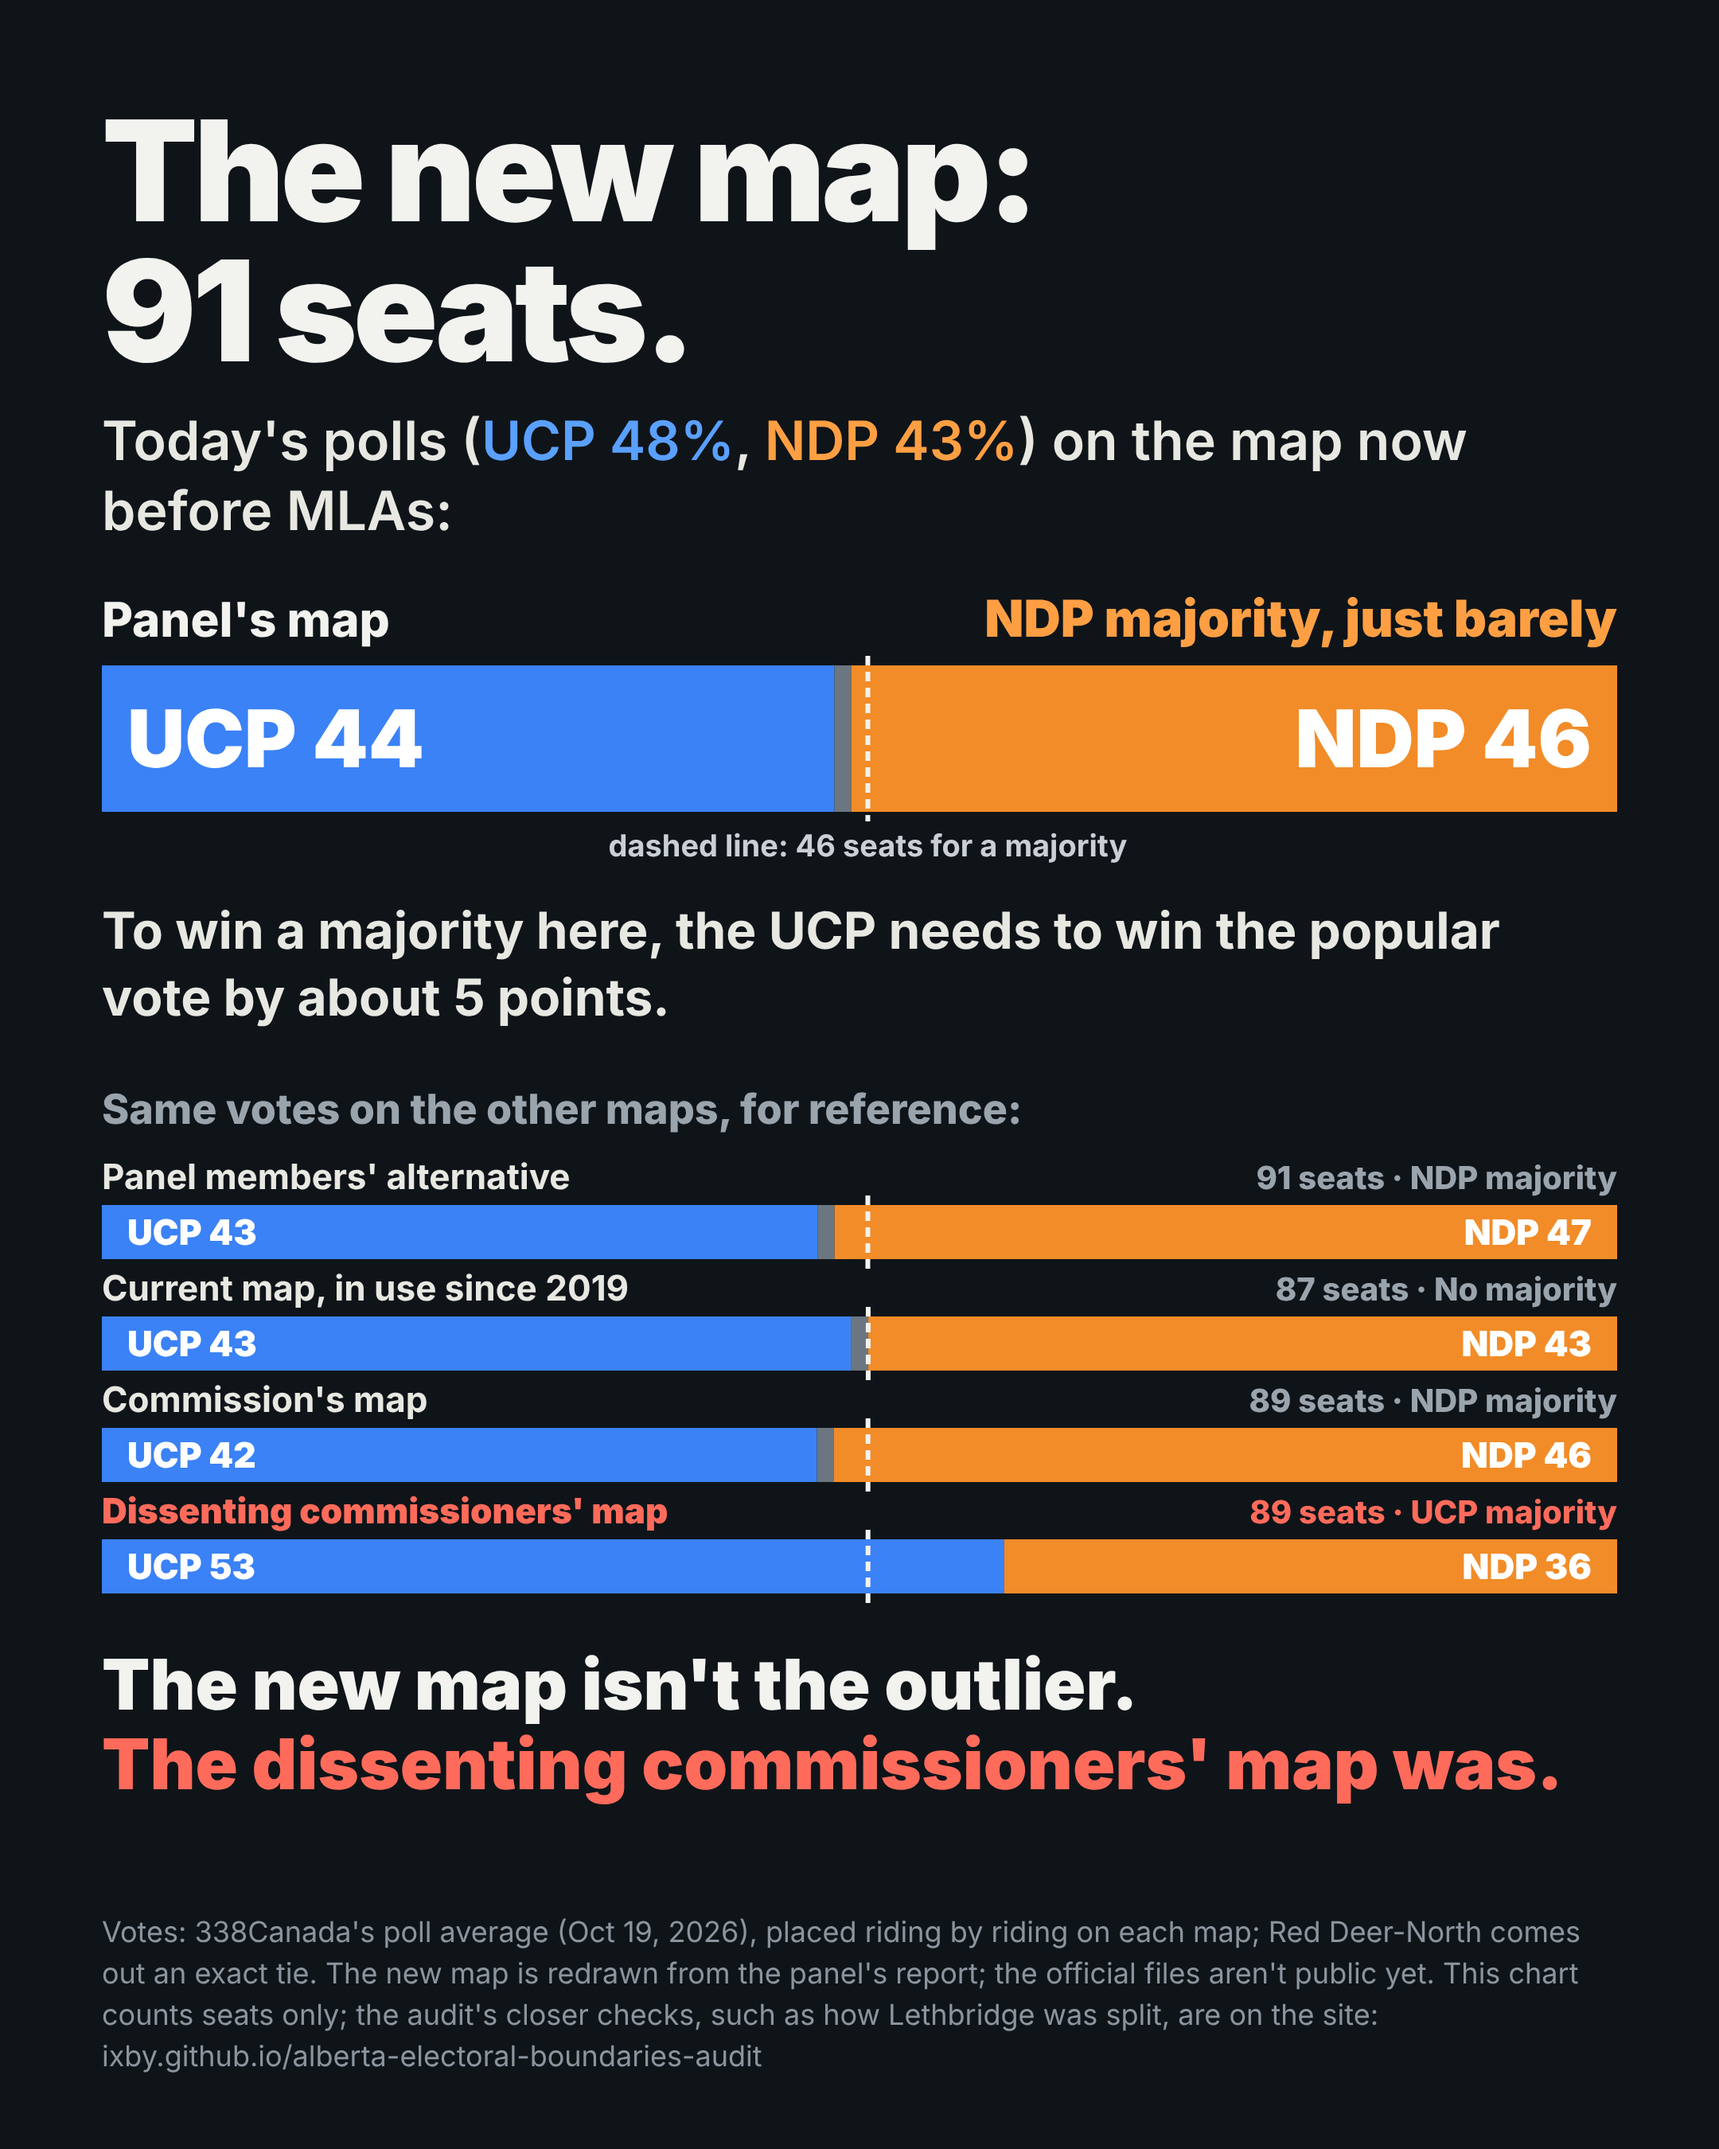
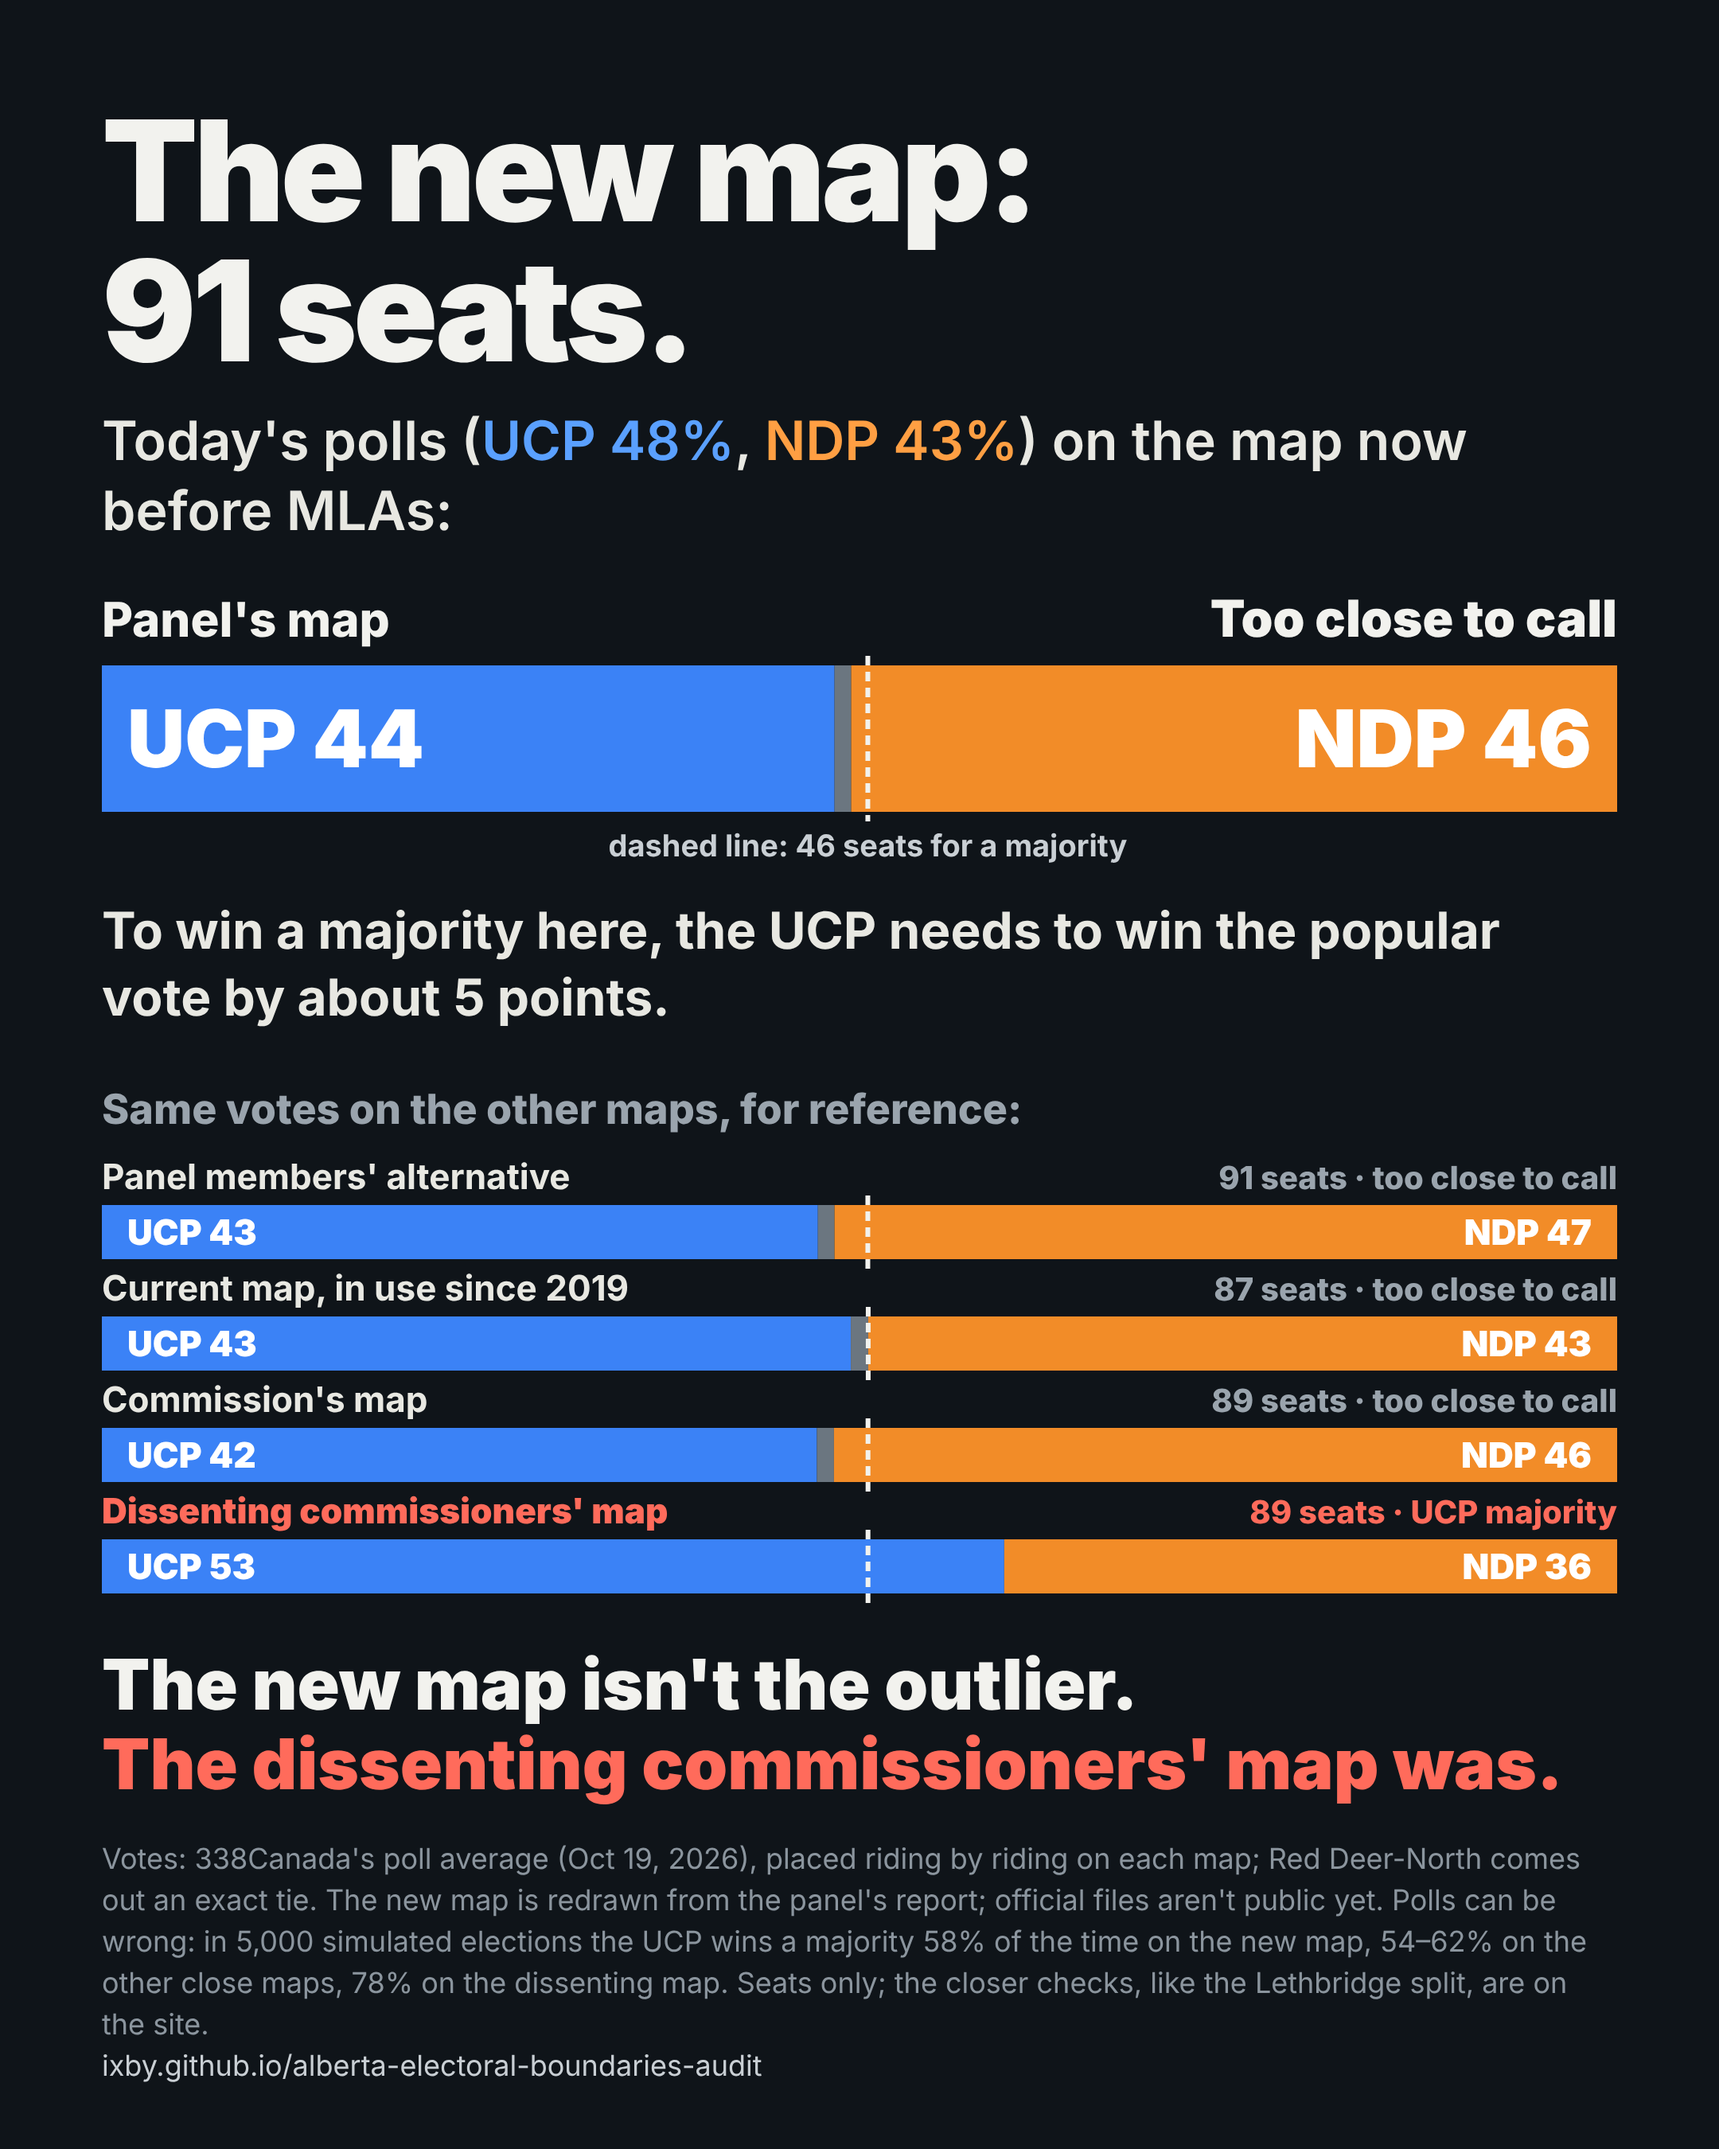
Chart: call the close maps "too close to call"; add the simulated odds
At the central numbers the panel's map gives NDP 46 of 91, exactly the majority line, and the UCP
wins a majority in 58% of 5,000 simulated elections, so "NDP majority, just barely" overstated a
coin flip. The three close reference maps (54-62%) get the same label; the dissenting map keeps
"UCP majority" (53 of 89, 78%). Footer states the odds in plain words.

Claude-Session: https://claude.ai/code/session_018fR2piQUSLgKm3yG7SKLG7

diff --git a/findings/p338_projection/meme/same_votes_five_maps.html b/findings/p338_projection/meme/same_votes_five_maps.html
@@ -25,7 +25,7 @@
   <div class="ref">Same votes on the other maps, for reference:</div>
   <svg id="refs" width="952" height="284" viewBox="0 0 952 284"></svg>
   <div class="punch">The new map isn't the outlier.<br><b>The dissenting commissioners' map was.</b></div>
-  <div class="foot">Votes: 338Canada's poll average (Oct 19, 2026), placed riding by riding on each map; Red Deer-North comes out an exact tie. The new map is redrawn from the panel's report; the official files aren't public yet. This chart counts seats only; the audit's closer checks, such as how Lethbridge was split, are on the site: ixby.github.io/alberta-electoral-boundaries-audit</div>
+  <div class="foot">Votes: 338Canada's poll average (Oct 19, 2026), placed riding by riding on each map; Red Deer-North comes out an exact tie. The new map is redrawn from the panel's report; official files aren't public yet. Polls can be wrong: in 5,000 simulated elections the UCP wins a majority 58% of the time on the new map, 54–62% on the other close maps, 78% on the dissenting map. Seats only; the closer checks, like the Lethbridge split, are on the site.<br><span style="white-space:nowrap;color:#c9cfd4">ixby.github.io/alberta-electoral-boundaries-audit</span></div>
 </div>
 <script>
 const NS = 'http://www.w3.org/2000/svg';
@@ -43,14 +43,14 @@ function bar(el, y, h, u, t, n, need, fs) {
 }
 const m = mk('main');
 m('text', {x: 0, y: 30, fill: '#f2f2ee', 'font-size': 30, 'font-weight': 800}, "Panel's map");
-m('text', {x: W, y: 30, fill: '#ff9f43', 'font-size': 32, 'font-weight': 900, 'text-anchor': 'end'}, 'NDP majority, just barely');
+m('text', {x: W, y: 30, fill: '#f2f2ee', 'font-size': 32, 'font-weight': 900, 'text-anchor': 'end'}, 'Too close to call');
 bar(m, 48, 92, 44, 1, 46, 46, 50);
 m('text', {x: 46 * W / 91, y: 168, fill: '#c9cfd4', 'font-size': 19, 'font-weight': 700, 'text-anchor': 'middle'}, 'dashed line: 46 seats for a majority');
 const r = mk('refs');
 const refs = [
-  {name: "Panel members' alternative", sub: '91 seats', u: 43, t: 1, n: 47, need: 46, verdict: 'NDP majority'},
-  {name: 'Current map, in use since 2019', sub: '87 seats', u: 43, t: 1, n: 43, need: 44, verdict: 'No majority'},
-  {name: "Commission's map", sub: '89 seats', u: 42, t: 1, n: 46, need: 45, verdict: 'NDP majority'},
+  {name: "Panel members' alternative", sub: '91 seats', u: 43, t: 1, n: 47, need: 46, verdict: 'too close to call'},
+  {name: 'Current map, in use since 2019', sub: '87 seats', u: 43, t: 1, n: 43, need: 44, verdict: 'too close to call'},
+  {name: "Commission's map", sub: '89 seats', u: 42, t: 1, n: 46, need: 45, verdict: 'too close to call'},
   {name: "Dissenting commissioners' map", sub: '89 seats', u: 53, t: 0, n: 36, need: 45, verdict: 'UCP majority', hot: true},
 ];
 refs.forEach((d, i) => {

diff --git a/findings/p338_projection/README.md b/findings/p338_projection/README.md
@@ -155,6 +155,7 @@ All files are in this folder, `p338/sim/`.
   - Current map (87): 43–43.
   - Commission's map (89): 42–46.
   - Dissenting commissioners' map (89): 53–36, a UCP majority.
+- **Verdict wording:** at 338's central numbers the panel's map gives NDP 46 of 91, exactly the majority line, with one exact tie. Because the UCP wins a majority in 58% of 5,000 simulated elections on this map (`mc.main.maps.panel.p_ucp_majority`), the chart calls it "Too close to call" rather than an NDP majority. The current map, the commission's map and the panel members' alternative are labelled the same way, at 62%, 54% and 54%. The dissenting map keeps "UCP majority": 53 of 89 is 8 seats over the line, and 78% of draws give the UCP a majority.
 - **Punchline:** "The new map isn't the outlier. The dissenting commissioners' map was." This holds on this measure (seats at today's central numbers). The footer says the chart counts seats only, and points to the audit's local checks, such as the Lethbridge split. Those are a different question.
 
 Why the UCP needs a clear lead on most maps: on the current map at 338's numbers, the UCP's projected wins have a median margin of 23 points, against 11 for the NDP's (`out/districts_map2019.csv`). The neutral ensemble shows the same lean. Source: `meme/same_votes_five_maps.html`; render with `node meme/render.cjs` (Playwright, Chromium).
